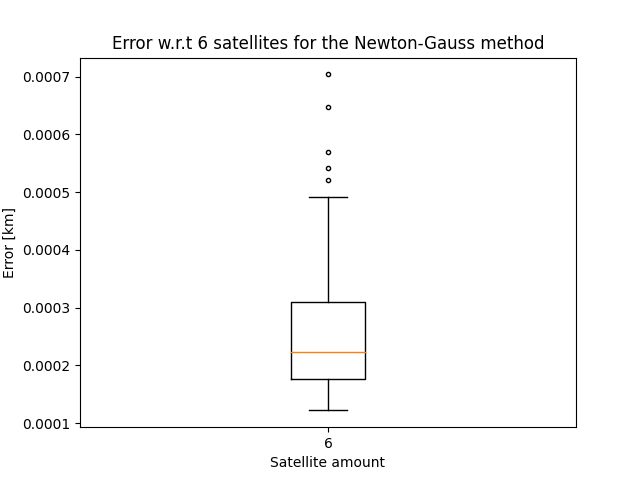
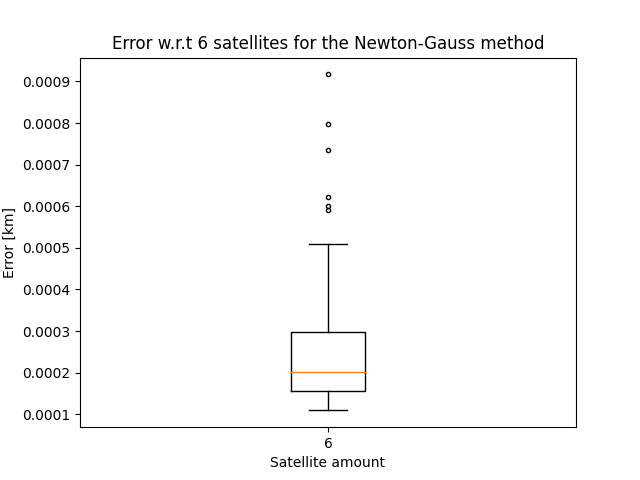
ok

diff --git a/problem_8_9.py b/problem_8_9.py
@@ -224,7 +224,7 @@ def distance_w_error(thetas: list, phis: list, err: int, tol_err: int, sat_amoun
 if __name__ == "__main__":
     sat_pos_amount = 100 
     min_sat_amount = 5
-    sat_amount = 9
+    sat_amount = 7
     method_type = "Newton-Gauss"
     all_all_errors = []
 
@@ -246,6 +246,12 @@ if __name__ == "__main__":
         plt.setp(bp['whiskers'], color='k', linestyle='-')
         plt.setp(bp['fliers'], markersize=3.0)
         fig.savefig(f'figures/sat_num_{sat_amount}.png')
+        plt.cla()
+        plt.hist(all_errors)
+        plt.xlabel('Perceived error [km]')
+        plt.ylabel('No. of sattelite groups')
+        plt.title(f'Error w.r.t {sat_amount} satellites for the {method_type} method')
+        plt.show()
 
         if sat_amount <= min_sat_amount:
             continue

diff --git a/problem_3_daniel.py b/problem_3_daniel.py
@@ -6,7 +6,7 @@ if __name__ == "__main__":
     corr_theta = [-np.pi/4, np.pi/2, 2*np.pi/3, np.pi/6]
     incorr_phi = [np.pi/8 + 1e-8, np.pi/6 + 1e-8, 3*np.pi/8 - 1e-8, np.pi/4 - 1e-8]
     
-    pos = Positions(x0=np.array([0,0,6730,0]), toll=1e-8)
+    pos = Positions(np.array([0,0,6730,0]), toll=1e-8)
     A, B, C, t = [], [], [], []
     for i in range(len(corr_phi)):
         t = pos.cartesian_calc(corr_phi[i], corr_theta[i])['t'] #Vector of time for each sat t[s] derived from correct values
